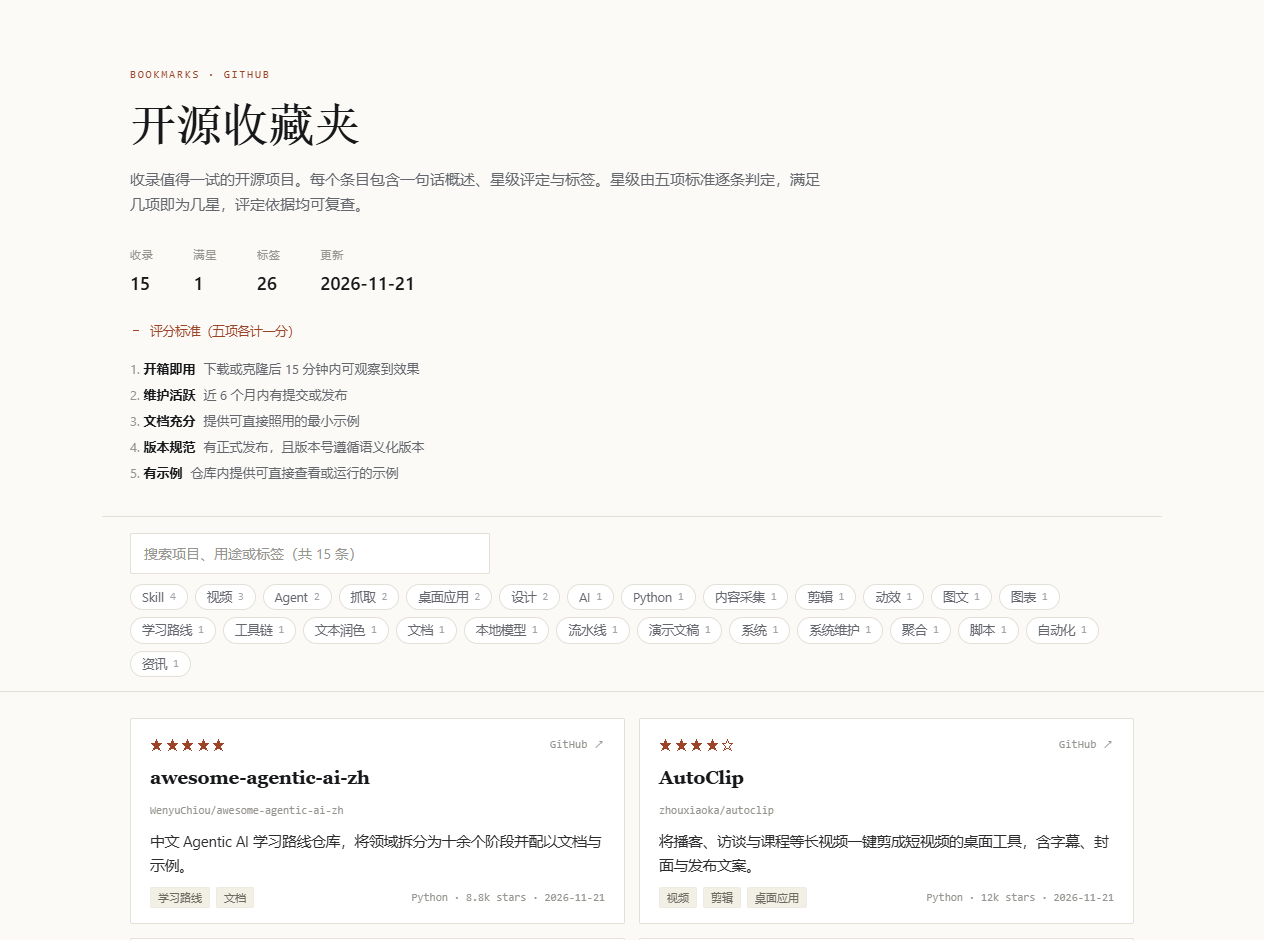
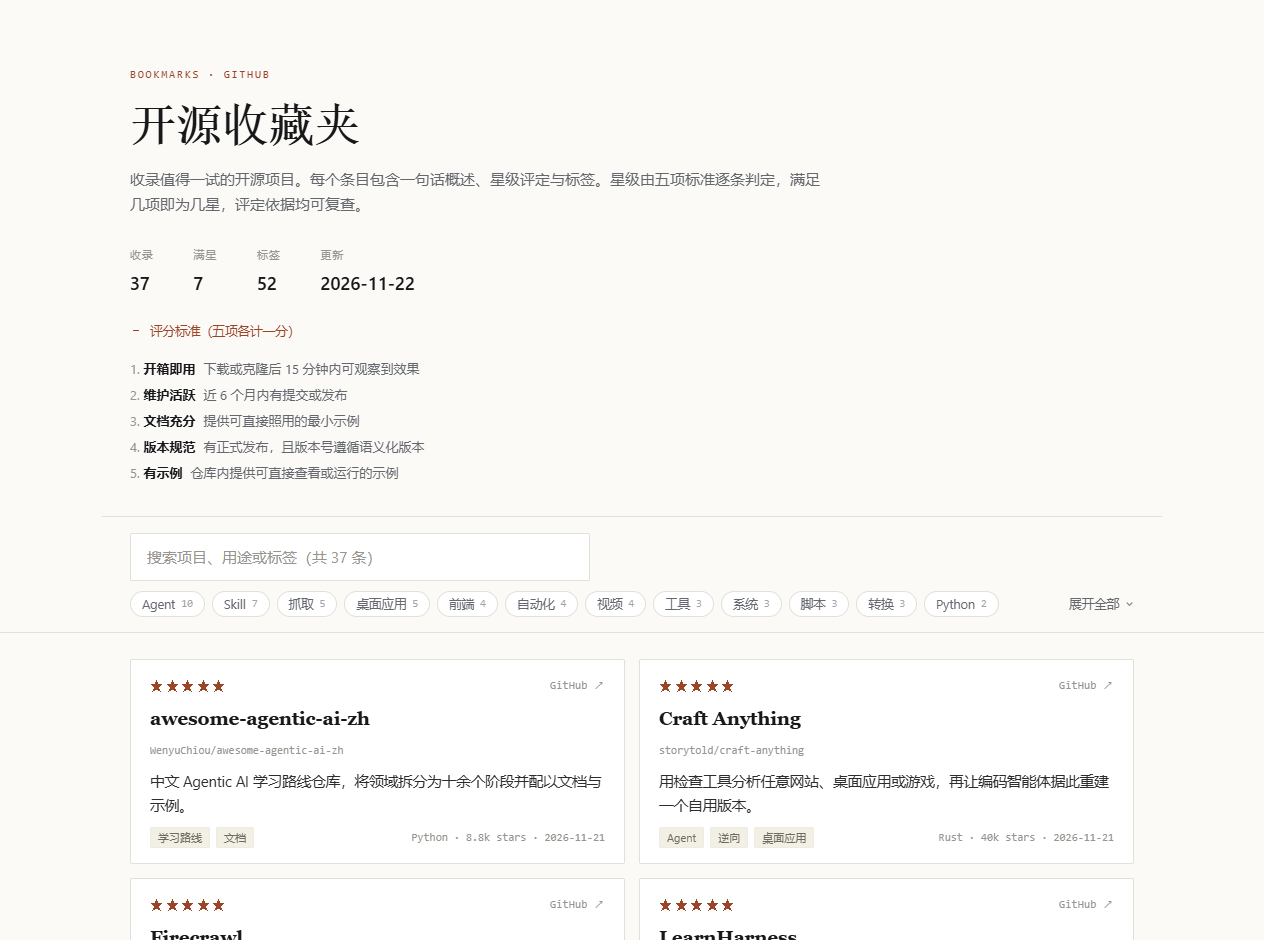
标签默认折叠为一行并附展开指示器；搜索框加大；预览图随版式重截

diff --git a/web/style.css b/web/style.css
@@ -40,11 +40,23 @@ h1{font-family:var(--serif);font-size:clamp(34px,4.6vw,46px);line-height:1.08;
 .toolbar{position:sticky;top:0;z-index:10;background:rgba(251,250,247,.95);
          backdrop-filter:saturate(1.4) blur(8px);border-bottom:1px solid var(--line);
          padding:16px 0 14px}
-#q{width:100%;max-width:360px;border:1px solid var(--line);background:var(--card);
-   color:var(--ink);padding:10px 13px;border-radius:2px;font-size:14px;font-family:var(--sans)}
+#q{width:100%;max-width:460px;border:1px solid var(--line);background:var(--card);
+   color:var(--ink);padding:13px 16px;border-radius:2px;font-size:15px;font-family:var(--sans)}
 #q::placeholder{color:var(--faint)}
 #q:focus{outline:none;border-color:#c7c0b2}
-.chips{display:flex;gap:7px;flex-wrap:wrap;margin-top:10px}
+.tagbar{display:flex;align-items:flex-start;gap:14px;margin-top:10px}
+.chips{flex:1 1 auto;min-width:0;display:flex;gap:7px;flex-wrap:wrap;
+       max-height:var(--row,27px);overflow:hidden;
+       transition:max-height .22s ease}
+.chips.open{max-height:none}
+@media (prefers-reduced-motion: reduce){.chips{transition:none}}
+.chips-toggle{flex:none;display:inline-flex;align-items:center;gap:6px;
+              font:12.5px/1 var(--sans);color:var(--muted);background:none;border:0;
+              padding:7px 0 0;cursor:pointer;white-space:nowrap}
+.chips-toggle:hover{color:var(--ink)}
+.chips-toggle[hidden]{display:none}
+.chips-toggle .arw{transition:transform .2s ease;opacity:.75}
+.chips-toggle[aria-expanded="true"] .arw{transform:rotate(180deg)}
 .chip{font:12.5px/1 var(--sans);border:1px solid var(--line);background:var(--card);
       color:var(--muted);padding:6px 11px;border-radius:999px;cursor:pointer;
       display:inline-flex;align-items:center;gap:6px}
@@ -283,7 +295,8 @@ body.scrolled .toolbar{background:rgba(251,250,247,.99)}
   .rubric ol{line-height:1.9}
   .toolbar{padding:12px 0 10px}
   #q{max-width:100%}
-  .chips{gap:6px;margin-top:8px}
+  .chips{gap:6px}
+  .tagbar{gap:10px;margin-top:8px}
   .chip{font-size:12px;padding:5px 9px}
   .grid{gap:10px;padding:18px 0 6px}
   .card{padding:15px 16px 13px}

diff --git a/src/build.py b/src/build.py
@@ -201,6 +201,7 @@ def build_index(entries: list[dict], now: str, css_ver: str) -> str:
 <meta name="viewport" content="width=device-width, initial-scale=1">
 <title>{esc(SITE_TITLE)}</title>
 <link rel="stylesheet" href="assets/style.css?v={css_ver}">
+<noscript><style>.chips{{max-height:none}}</style></noscript>
 </head>
 <body>
 <header class="wrap">
@@ -222,7 +223,16 @@ def build_index(entries: list[dict], now: str, css_ver: str) -> str:
 <div class="toolbar">
   <div class="wrap">
     <input id="q" type="search" placeholder="搜索项目、用途或标签（共 {len(entries)} 条）" autocomplete="off">
-    <div class="chips" id="tags">{chips}</div>
+    <div class="tagbar">
+      <div class="chips" id="tags">{chips}</div>
+      <button class="chips-toggle" id="tagsToggle" type="button"
+              aria-expanded="false" aria-controls="tags" hidden>
+        <span class="tx">展开全部</span>
+        <svg class="arw" width="9" height="9" viewBox="0 0 10 10" aria-hidden="true">
+          <path d="M2 4l3 3 3-3" fill="none" stroke="currentColor" stroke-width="1.3"/>
+        </svg>
+      </button>
+    </div>
   </div>
 </div>
 
@@ -287,6 +297,35 @@ def build_index(entries: list[dict], now: str, css_ver: str) -> str:
   if (wanted) {{ setTag(wanted); }}
 
   q.addEventListener('input', function () {{ apply(false); }});
+
+  var chips = document.getElementById('tags');
+  var toggle = document.getElementById('tagsToggle');
+  var toggleTx = toggle.querySelector('.tx');
+  if (wanted) chips.classList.add('open');
+  function tagRowHeight() {{
+    var first = chips.firstElementChild;
+    return first ? Math.round(first.getBoundingClientRect().height) : 0;
+  }}
+  function syncTags() {{
+    var open = chips.classList.contains('open');
+    var h = tagRowHeight();
+    if (h) chips.style.setProperty('--row', h + 'px');
+    if (open) {{
+      toggle.hidden = false;
+    }} else {{
+      toggle.hidden = !(chips.scrollHeight > chips.clientHeight + 1);
+    }}
+    toggle.setAttribute('aria-expanded', String(open));
+    toggleTx.textContent = open ? '收起' : '展开全部';
+  }}
+  toggle.addEventListener('click', function () {{
+    chips.classList.toggle('open');
+    syncTags();
+  }});
+  syncTags();
+  window.addEventListener('resize', syncTags);
+  window.addEventListener('load', syncTags);
+  if (document.fonts && document.fonts.ready) document.fonts.ready.then(syncTags);
 
   var bar = document.querySelector('.toolbar');
   function onScroll() {{ document.body.classList.toggle('scrolled', window.scrollY > 6); }}
